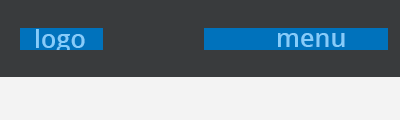
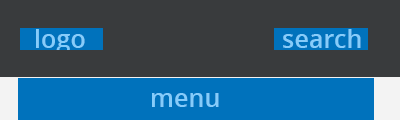
Add header style 2 and add some documentation.

diff --git a/wp-content/themes/SKPD/framework-customizations/header-style/header_2.php b/wp-content/themes/SKPD/framework-customizations/header-style/header_2.php
@@ -1,0 +1,87 @@
+<div class="main-menu">
+    <div class="ui grid container">
+      <div class="column">
+        <div class="ui secondary menu page-nav">
+          <div class="header item">
+            <img class="ui centered golo image" src="<?php if(get_theme_mod( 'img-upload' )!=null || get_theme_mod( 'img-upload' ) != '') echo get_theme_mod( 'img-upload' ); else echo get_template_directory_uri().'/img/dki.png'; ?>"" alt="">
+            <div class="content">
+              <a href="<?php echo site_url(); ?>">
+                <h3 class="ui header"><?php echo get_theme_mod( 'nick_title', 'your title' ); ?></h3>
+                <p><?php echo get_theme_mod( 'nick_city', 'your city' ); ?></p>
+              </a>
+            </div>
+          </div>
+          <div class="right menu">
+            
+            <form action="<?php echo home_url( '/' ); ?>">
+              <div class="item search-ui">
+                <div class="ui fluid search">
+                  <div class="ui icon input">
+                    <input class="prompt" name="s" type="text" placeholder="Search...">
+                    <i class="search icon"></i>
+                  </div>
+                </div>
+              </div>
+            </form>
+            
+          </div>
+        </div>
+      </div>
+    </div>
+  </div>
+<!--   <div class="ui menu menu-bar">
+    <div class="ui container">
+      <?php 
+              wp_nav_menu(array(
+                'menu'              => 'primary',
+                'theme_location'    => 'primary',
+                'depth'             => 3,
+                'container'         => '',
+                'container_id'      => '',
+                'container_class'   => '',
+                'menu_class'        => '',
+                'fallback_cb'       => '',
+                'items_wrap'        => '%3$s',
+                'walker'            => new walkah()
+              ));
+            ?>
+    </div>
+  </div> -->
+          
+  <div class="ui vertical left sidebar styled accordion menu">
+    <?php 
+      wp_nav_menu(array(
+        'menu'              => 'primary',
+        'theme_location'    => 'primary',
+        'depth'             => 3,
+        'container'         => '',
+        'container_id'      => '',
+        'container_class'   => '',
+        'menu_class'        => '',
+        'fallback_cb'       => '',
+        'items_wrap'        => '%3$s',
+        'walker'            => new sider()
+      ));
+    ?>
+  </div>
+  <div class="pusher">
+    <div class="mobile-nav">
+      <div class="ui container">
+        <div class="ui large secondary menu">
+          <div class="item head">
+            <div class="ui logo image">
+              <img class="ui mini image" src="<?php if(get_theme_mod( 'img-upload' )!=null || get_theme_mod( 'img-upload' ) != '') echo get_theme_mod( 'img-upload' ); else echo get_template_directory_uri().'/img/dki.png'; ?>"" alt="">
+            </div>
+            <div class="mobile-label">
+              <h3 class="title"><?php echo get_theme_mod( 'nick_title_abr', 'your abbreviation title' ); ?></h3>
+              <h5 class="subtitle"><?php echo get_theme_mod( 'nick_subtitle', 'your subtitle' ); ?></h5>
+            </div>
+          </div>
+          <div class="right item">
+            <a class="toc item">
+              <i class="sidebar icon"></i>
+            </a>
+          </div>
+        </div>
+      </div>
+    </div>

diff --git a/wp-content/themes/SKPD/framework-customizations/theme/options/settings.php b/wp-content/themes/SKPD/framework-customizations/theme/options/settings.php
@@ -1,8 +1,11 @@
 <?php
+/**
+ * You can read unyson documentation here http://manual.unyson.io/en/latest/options/built-in/introduction.html#content
+ */
+
 
 // check if unyson framework has defined/installed
 if ( ! defined('FW') )	die();
-
 
 $options = array(
 
@@ -30,9 +33,9 @@ $options = array(
 	        ),
 	        'header_2' => array(
 	            // (required) url for thumbnail
-	            'small' => get_template_directory_uri() .'/framework-customizations/images/header-1-small.png',
+	            'small' => get_template_directory_uri() .'/framework-customizations/images/header-2-small.png',
 	            // (optional) url for large image that will appear in tooltip
-	            'large' => get_template_directory_uri() .'/framework-customizations/images/header-1.png',
+	            'large' => get_template_directory_uri() .'/framework-customizations/images/header-2.png',
 	        ),
 	        
 	    ),

diff --git a/wp-content/themes/SKPD/framework-customizations/theme-functions.php b/wp-content/themes/SKPD/framework-customizations/theme-functions.php
@@ -3,6 +3,7 @@
  * @author Vive Vio Permana <vive.permana@gmail.com>
  *
  * This file is inital or setter and getter for plugin uniyson
+ * You can read unyson documentation here http://manual.unyson.io/en/latest/options/integrate.html#content
  * 
  */
 
